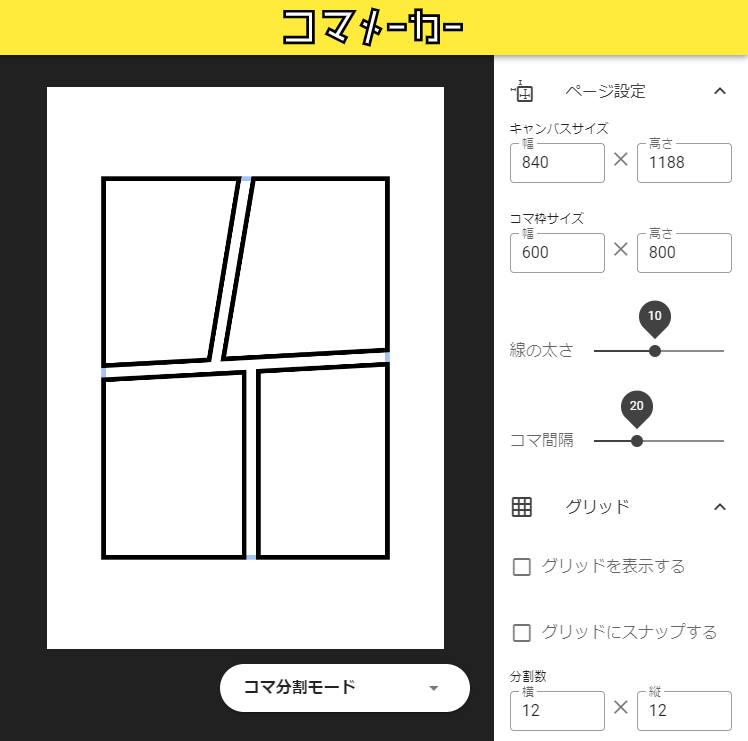
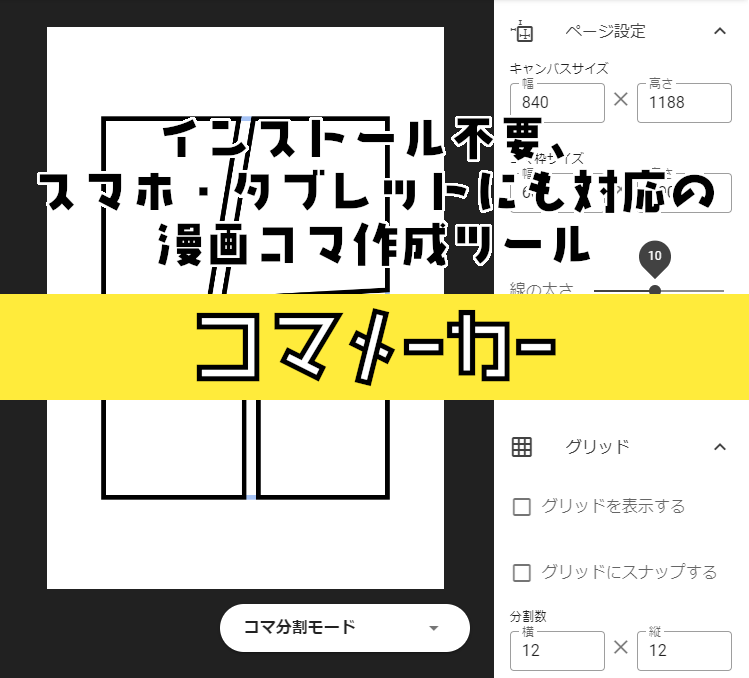
OGPとメタデータの修正

diff --git a/public/index.html b/public/index.html
@@ -11,10 +11,10 @@
 
     <!-- OGP用meta情報 -->
     <meta name="og:type" content="website">
-    <meta name="og:url" content="https://elegant-shockley-4a702c.netlify.app/">
+    <meta name="og:url" content="https://koma-maker.furikake.page/">
     <meta name="og:title" content="コマメーカー">
-    <meta name="og:description" content="漫画のコマ割りをかんたんに作成でき、png形式でダウンロードできます。">
-    <meta name="og:image" content="https://elegant-shockley-4a702c.netlify.app/ogp_image.png">
+    <meta name="og:description" content="インストール不要、スマホ・タブレットにも対応の漫画コマ作成ツール">
+    <meta name="og:image" content="https://koma-maker.furikake.page/ogp_image.png">
     <meta name="twitter:card" content="summary_large_image" />
     <meta name="twitter:site" content="@furikake555" />
   </head>
